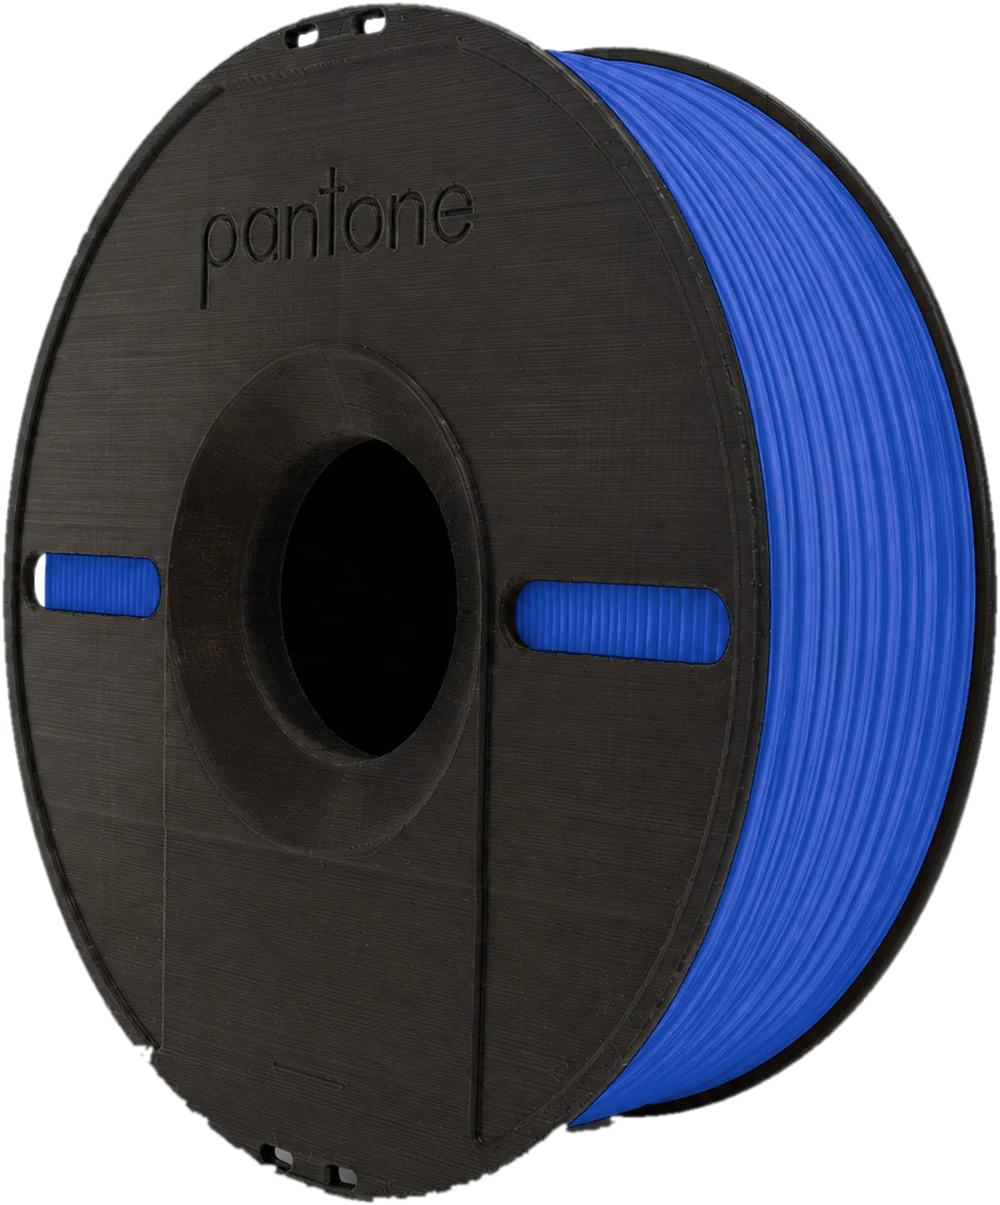
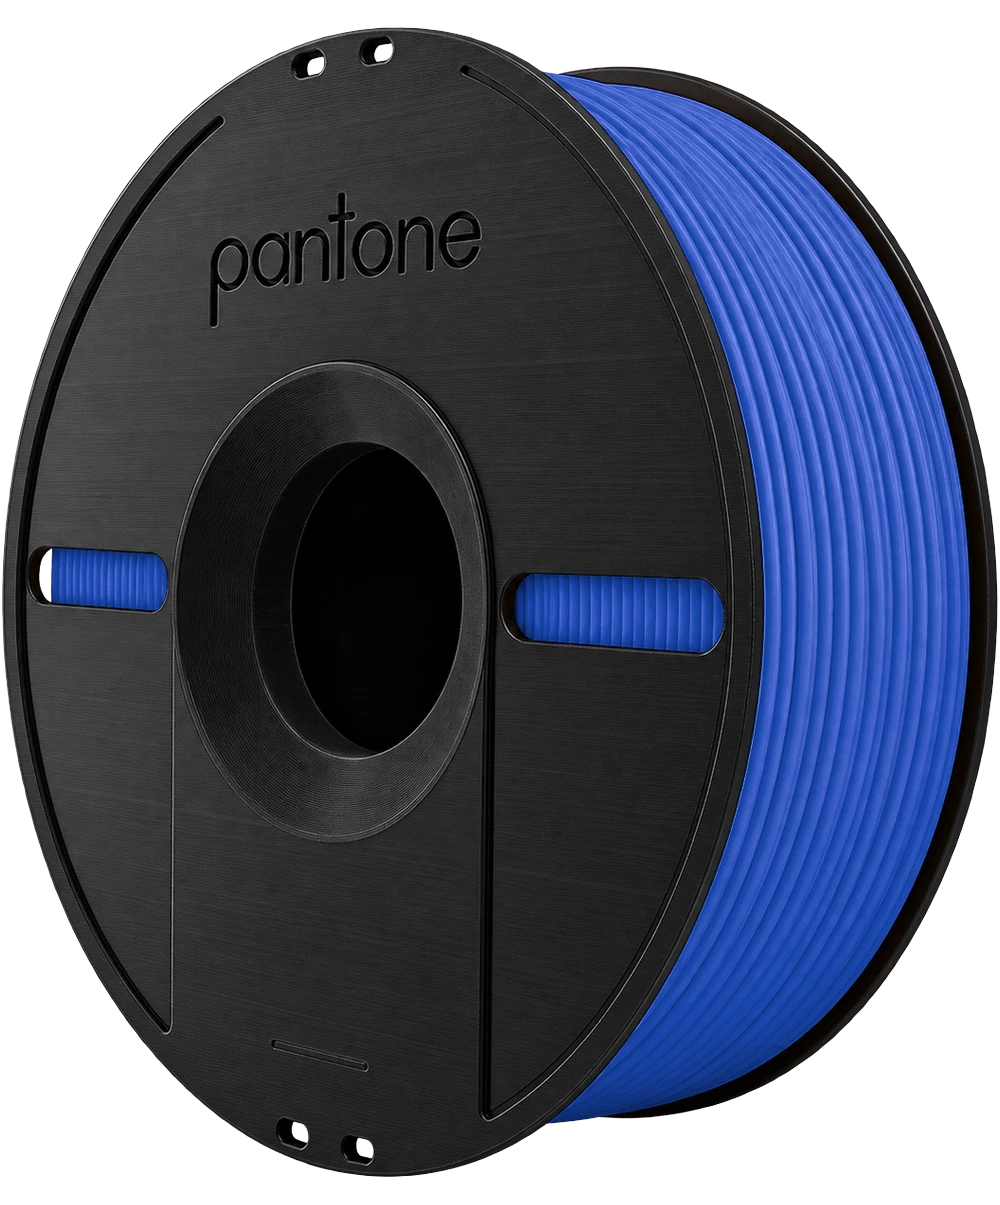
Rebuild every spool from the clean product PNG; rainbow floor reflections in the hero
Claude-Session: https://claude.ai/code/session_01HdEYpk2ZAj2byGTHEsWonD

diff --git a/index.html b/index.html
@@ -8,13 +8,13 @@
   <meta name="theme-color" content="#080808">
   <meta property="og:title" content="Pantone3D — Material made to perform">
   <meta property="og:description" content="Premium 3D printing filaments engineered for consistent flow, dependable colour and reliable results.">
-  <meta property="og:image" content="assets/img/spool-hero.webp?v=20261005f">
+  <meta property="og:image" content="assets/img/spool-yellow.webp?v=20261005g">
   <link rel="icon" href="assets/img/favicon.svg" type="image/svg+xml">
 
   <link rel="preload" as="font" type="font/woff2" href="assets/fonts/manrope-latin.woff2" crossorigin>
   <link rel="preload" as="font" type="font/woff2" href="assets/fonts/inter-latin.woff2" crossorigin>
-  <link rel="preload" as="image" href="assets/img/spool-hero.webp?v=20261005f" imagesrcset="assets/img/spool-hero-sm.webp?v=20261005f 560w, assets/img/spool-hero.webp?v=20261005f 1000w" imagesizes="(max-width: 760px) 86vw, 56vw" fetchpriority="high">
-  <link rel="stylesheet" href="assets/css/main.css?v=20261005f">
+  <link rel="preload" as="image" href="assets/img/spool-yellow.webp?v=20261005g" imagesrcset="assets/img/spool-yellow-sm.webp?v=20261005g 560w, assets/img/spool-yellow.webp?v=20261005g 1000w" imagesizes="(max-width: 760px) 86vw, 56vw" fetchpriority="high">
+  <link rel="stylesheet" href="assets/css/main.css?v=20261005g">
   <script>
     document.documentElement.classList.add('js');
     // Light or dark mode, restored before first paint so the page never flashes.
@@ -73,10 +73,10 @@
     <section class="s hero" id="top" aria-labelledby="hero-title">
       <div class="hero__spool" data-anchor="hero-spool">
         <div class="hero__spool-inner">
-          <img src="assets/img/spool-hero.webp?v=20261005f" srcset="assets/img/spool-hero-sm.webp?v=20261005f 560w, assets/img/spool-hero.webp?v=20261005f 1000w" sizes="(max-width: 760px) 86vw, 56vw" width="1000" height="1205" alt="Pantone3D filament spool wound with yellow filament" fetchpriority="high">
+          <img src="assets/img/spool-yellow.webp?v=20261005g" srcset="assets/img/spool-yellow-sm.webp?v=20261005g 560w, assets/img/spool-yellow.webp?v=20261005g 1000w" sizes="(max-width: 760px) 86vw, 56vw" width="1000" height="1205" alt="Pantone3D filament spool wound with yellow filament" fetchpriority="high">
         </div>
       </div>
-      <div class="hero__floor" aria-hidden="true"><img src="assets/img/spool-hero-sm.webp?v=20261005f" width="560" height="675" alt=""></div>
+      <div class="hero__floor" aria-hidden="true"><i class="hero__streaks"><b></b></i><img src="assets/img/spool-yellow-sm.webp?v=20261005g" width="560" height="675" alt=""></div>
       <div class="wrap hero__copy">
         <p class="eyebrow" data-reveal>Engineered 3D Materials</p>
         <h1 class="display hero__title" id="hero-title">
@@ -157,8 +157,8 @@
         <p class="lede">A focused range of 3D printing materials for smooth flow, a dependable finish and real-world use.</p>
       </div>
       <div class="mats__spool" data-anchor="mats-spool">
-        <img class="mats__img is-on" src="assets/img/spool-yellow.webp?v=20261005f" srcset="assets/img/spool-yellow-sm.webp?v=20261005f 560w, assets/img/spool-yellow.webp?v=20261005f 1000w" sizes="(max-width: 760px) 70vw, 36vw" width="1000" height="1205" alt="" loading="lazy">
-        <img class="mats__img" src="assets/img/spool-yellow.webp?v=20261005f" width="1000" height="1205" alt="" loading="lazy">
+        <img class="mats__img is-on" src="assets/img/spool-yellow.webp?v=20261005g" srcset="assets/img/spool-yellow-sm.webp?v=20261005g 560w, assets/img/spool-yellow.webp?v=20261005g 1000w" sizes="(max-width: 760px) 70vw, 36vw" width="1000" height="1205" alt="" loading="lazy">
+        <img class="mats__img" src="assets/img/spool-yellow.webp?v=20261005g" width="1000" height="1205" alt="" loading="lazy">
       </div>
       <div class="mats__panel">
         <article class="mat" id="mat-pla-plus" aria-labelledby="mat-pla-plus-n">
@@ -237,7 +237,7 @@
         <ol class="steps">
           <li class="step">
             <div class="step__txt"><p class="step__n">01</p><h3>Filament</h3><p>High-performance materials, precisely formulated.</p></div>
-            <div class="step__media"><img src="assets/img/spool-white-sm.webp?v=20261005f" width="560" height="675" alt="Pantone3D spool of white filament" loading="lazy"></div>
+            <div class="step__media"><img src="assets/img/spool-white-sm.webp?v=20261005g" width="560" height="675" alt="Pantone3D spool of white filament" loading="lazy"></div>
           </li>
           <li class="step">
             <div class="step__txt"><p class="step__n">02</p><h3>Extrusion</h3><p>Controlled heat. Consistent flow. Reliable results.</p></div>
@@ -271,7 +271,7 @@
             <div class="tile__txt"><p class="label">01</p><h3>Dimensional control</h3><p>Consistent filament behaviour.</p></div>
           </article>
           <article class="tile tile--wind">
-            <img class="tile__spool" src="assets/img/spool-yellow-sm.webp?v=20261005f" width="560" height="675" alt="Pantone3D spool with evenly wound yellow filament" loading="lazy">
+            <img class="tile__spool" src="assets/img/spool-yellow-sm.webp?v=20261005g" width="560" height="675" alt="Pantone3D spool with evenly wound yellow filament" loading="lazy">
             <div class="tile__txt"><p class="label">02</p><h3>Reliable winding</h3><p>Clean feeding from spool to machine.</p></div>
           </article>
           <article class="tile tile--col">
@@ -367,6 +367,6 @@
   <script src="assets/vendor/ScrollTrigger.min.js" defer></script>
   <script src="assets/vendor/SplitText.min.js" defer></script>
   <script src="assets/vendor/lenis.min.js" defer></script>
-  <script src="assets/js/app.js?v=20261005f" defer></script>
+  <script src="assets/js/app.js?v=20261005g" defer></script>
 </body>
 </html>

diff --git a/assets/css/main.css b/assets/css/main.css
@@ -288,18 +288,28 @@ main, .foot { position: relative; z-index: 2; }
   right: 9vw; width: min(27vw, 46vh); aspect-ratio: 1000 / 1205;
   top: calc(55% + min(27vw, 46vh) * 1.205 / 2 - min(27vw, 46vh) * .03);
 }
-.hero__floor::before {
-  content: ""; position: absolute; left: -45%; right: -45%; top: -6%; height: 34%;
-  background: linear-gradient(90deg, transparent, rgba(255,212,0,.5) 18%, rgba(255,46,99,.5) 40%, rgba(216,44,255,.45) 58%, rgba(19,140,255,.45) 78%, transparent);
-  filter: blur(34px); opacity: .55; border-radius: 50%;
-  -webkit-mask: radial-gradient(closest-side, #000 30%, transparent); mask: radial-gradient(closest-side, #000 30%, transparent);
+/* coloured light pooling on a glossy floor: a bright rainbow band at the foot,
+   streaking down as reflections, under a faint mirror image of the spool */
+.hero__floor::before, .hero__streaks b {
+  background: linear-gradient(90deg, transparent 2%, #ff6a00 16%, #ff2e63 32%, #d82cff 48%, #6a5cff 62%, #138cff 76%, #00d5c8 88%, transparent 98%);
+}
+.hero__floor::before { content: ""; position: absolute; left: -70%; right: -70%; top: -8%; height: 18%; border-radius: 50%; filter: blur(26px); opacity: .8; }
+/* the reflections: masked into uneven vertical streaks, then blurred as a whole so they smear softly */
+.hero__streaks { position: absolute; left: -70%; right: -70%; top: -4%; height: 75%; filter: blur(9px); opacity: .55; }
+.hero__streaks b {
+  position: absolute; inset: 0;
+  --streaks: repeating-linear-gradient(90deg, #000 0 14px, rgba(0,0,0,.15) 26px 40px, rgba(0,0,0,.8) 48px 56px, rgba(0,0,0,.1) 66px 84px, #000 92px 104px, rgba(0,0,0,.3) 116px 131px);
+  --fade: linear-gradient(transparent, #000 8%, rgba(0,0,0,.45) 40%, transparent 92%);
+  -webkit-mask: var(--streaks), var(--fade); -webkit-mask-composite: source-in;
+  mask: var(--streaks), var(--fade); mask-composite: intersect;
 }
 .hero__floor img {
-  position: relative; display: block; width: 100%; height: auto; transform: scaleY(-1); opacity: .32;
-  -webkit-mask: linear-gradient(to top, rgba(0,0,0,.9), transparent 42%); mask: linear-gradient(to top, rgba(0,0,0,.9), transparent 42%);
+  position: relative; z-index: 1; display: block; width: 100%; height: auto; transform: scaleY(-1); opacity: .3;
+  -webkit-mask: linear-gradient(to top, rgba(0,0,0,.9), transparent 40%); mask: linear-gradient(to top, rgba(0,0,0,.9), transparent 40%);
 }
-html[data-mode="light"] .hero__floor img { opacity: .22; }
-html[data-mode="light"] .hero__floor::before { opacity: .35; }
+html[data-mode="light"] .hero__floor img { opacity: .2; }
+html[data-mode="light"] .hero__floor::before { opacity: .4; }
+html[data-mode="light"] .hero__streaks { opacity: .22; }
 .hero__cue {
   position: absolute; left: 50%; bottom: 26px; transform: translateX(-50%);
   color: var(--dim); display: flex; flex-direction: column; align-items: center; gap: 12px; white-space: nowrap; font-size: 11px;

diff --git a/about.html b/about.html
@@ -13,7 +13,7 @@
 
   <link rel="preload" as="font" type="font/woff2" href="assets/fonts/manrope-latin.woff2" crossorigin>
   <link rel="preload" as="font" type="font/woff2" href="assets/fonts/inter-latin.woff2" crossorigin>
-  <link rel="stylesheet" href="assets/css/main.css?v=20261005f">
+  <link rel="stylesheet" href="assets/css/main.css?v=20261005g">
   <script>
     document.documentElement.classList.add('js');
     // Light or dark mode, restored before first paint so the page never flashes.
@@ -193,6 +193,6 @@
   <script src="assets/vendor/ScrollTrigger.min.js" defer></script>
   <script src="assets/vendor/SplitText.min.js" defer></script>
   <script src="assets/vendor/lenis.min.js" defer></script>
-  <script src="assets/js/about.js?v=20261005f" defer></script>
+  <script src="assets/js/about.js?v=20261005g" defer></script>
 </body>
 </html>

diff --git a/src/data.js b/src/data.js
@@ -95,7 +95,7 @@ export const APPLICATIONS = [
   { name: 'Creative Printing', note: 'Sculptural forms, décor and experiments.',           shape: 'organic', icon: 'flower', colour: 'red' },
 ];
 
-export const spoolSrc = (colour, small = false) => `assets/img/spool-${colour}${small ? '-sm' : ''}.webp?v=20261005f`;
+export const spoolSrc = (colour, small = false) => `assets/img/spool-${colour}${small ? '-sm' : ''}.webp?v=20261005g`;
 /* Close-up of the wound filament, cropped from the same product photography. */
 export const texSrc = (colour) => `assets/img/tex-${colour}.webp`;
 

diff --git a/assets/js/about.js b/assets/js/about.js
@@ -709,7 +709,7 @@ const APPLICATIONS = [
   { name: 'Creative Printing', note: 'Sculptural forms, décor and experiments.',           shape: 'organic', icon: 'flower', colour: 'red' },
 ];
 
-const spoolSrc = (colour, small = false) => `assets/img/spool-${colour}${small ? '-sm' : ''}.webp?v=20261005f`;
+const spoolSrc = (colour, small = false) => `assets/img/spool-${colour}${small ? '-sm' : ''}.webp?v=20261005g`;
 /* Close-up of the wound filament, cropped from the same product photography. */
 const texSrc = (colour) => `assets/img/tex-${colour}.webp`;
 

diff --git a/assets/js/app.js b/assets/js/app.js
@@ -709,7 +709,7 @@ const APPLICATIONS = [
   { name: 'Creative Printing', note: 'Sculptural forms, décor and experiments.',           shape: 'organic', icon: 'flower', colour: 'red' },
 ];
 
-const spoolSrc = (colour, small = false) => `assets/img/spool-${colour}${small ? '-sm' : ''}.webp?v=20261005f`;
+const spoolSrc = (colour, small = false) => `assets/img/spool-${colour}${small ? '-sm' : ''}.webp?v=20261005g`;
 /* Close-up of the wound filament, cropped from the same product photography. */
 const texSrc = (colour) => `assets/img/tex-${colour}.webp`;
 

diff --git a/tools/build_assets.py b/tools/build_assets.py
@@ -114,17 +114,24 @@ def recolour(a, fm, target, matte=False):
 def save(rgb, alpha, name):
     arr = np.dstack([rgb, alpha[..., None]])
     img = Image.fromarray((np.clip(arr, 0, 1) * 255).astype(np.uint8), "RGBA")
-    bbox = img.getbbox()
-    img = img.crop(bbox)
+    img = img.crop(img.getbbox())
+    # every spool sits centred on the same 1000x1205 canvas the layout expects
+    W, H = 1000, 1205
+    k = min(996 / img.width, 1180 / img.height)
+    img = img.resize((round(img.width * k), round(img.height * k)), Image.LANCZOS)
+    canvas = Image.new("RGBA", (W, H), (0, 0, 0, 0))
+    canvas.paste(img, ((W - img.width) // 2, (H - img.height) // 2), img)
     for width, suffix in ((1000, ""), (560, "-sm")):
-        im = img.resize((width, round(img.height * width / img.width)), Image.LANCZOS)
-        im.save(os.path.join(OUT, f"spool-{name}{suffix}.webp"), "WEBP", quality=86, method=6)
-    return img.size
+        im = canvas if width == W else canvas.resize((width, round(H * width / W)), Image.LANCZOS)
+        im.save(os.path.join(OUT, f"spool-{name}{suffix}.webp"), "WEBP", quality=90, method=6)
+    return canvas.size
 
 
 def main():
-    src = Image.open(os.path.join(SRC, "spool-yellow.jpg"))
-    a, alpha = cutout(src)
+    # the clean studio cutout: drop the faint haze around it so no edge or shadow remains
+    src = Image.open(os.path.join(SRC, "spool-yellow.png")).convert("RGBA")
+    a = np.asarray(src.convert("RGB")).astype(np.float32) / 255
+    alpha = np.clip((np.asarray(src.getchannel("A")).astype(np.float32) - 24) / 206, 0, 1)
     fm = filament_mask(a)
     sample = a[fm > 0.95]
     brand = tuple(int(x) for x in (np.median(sample, 0) * 255))
